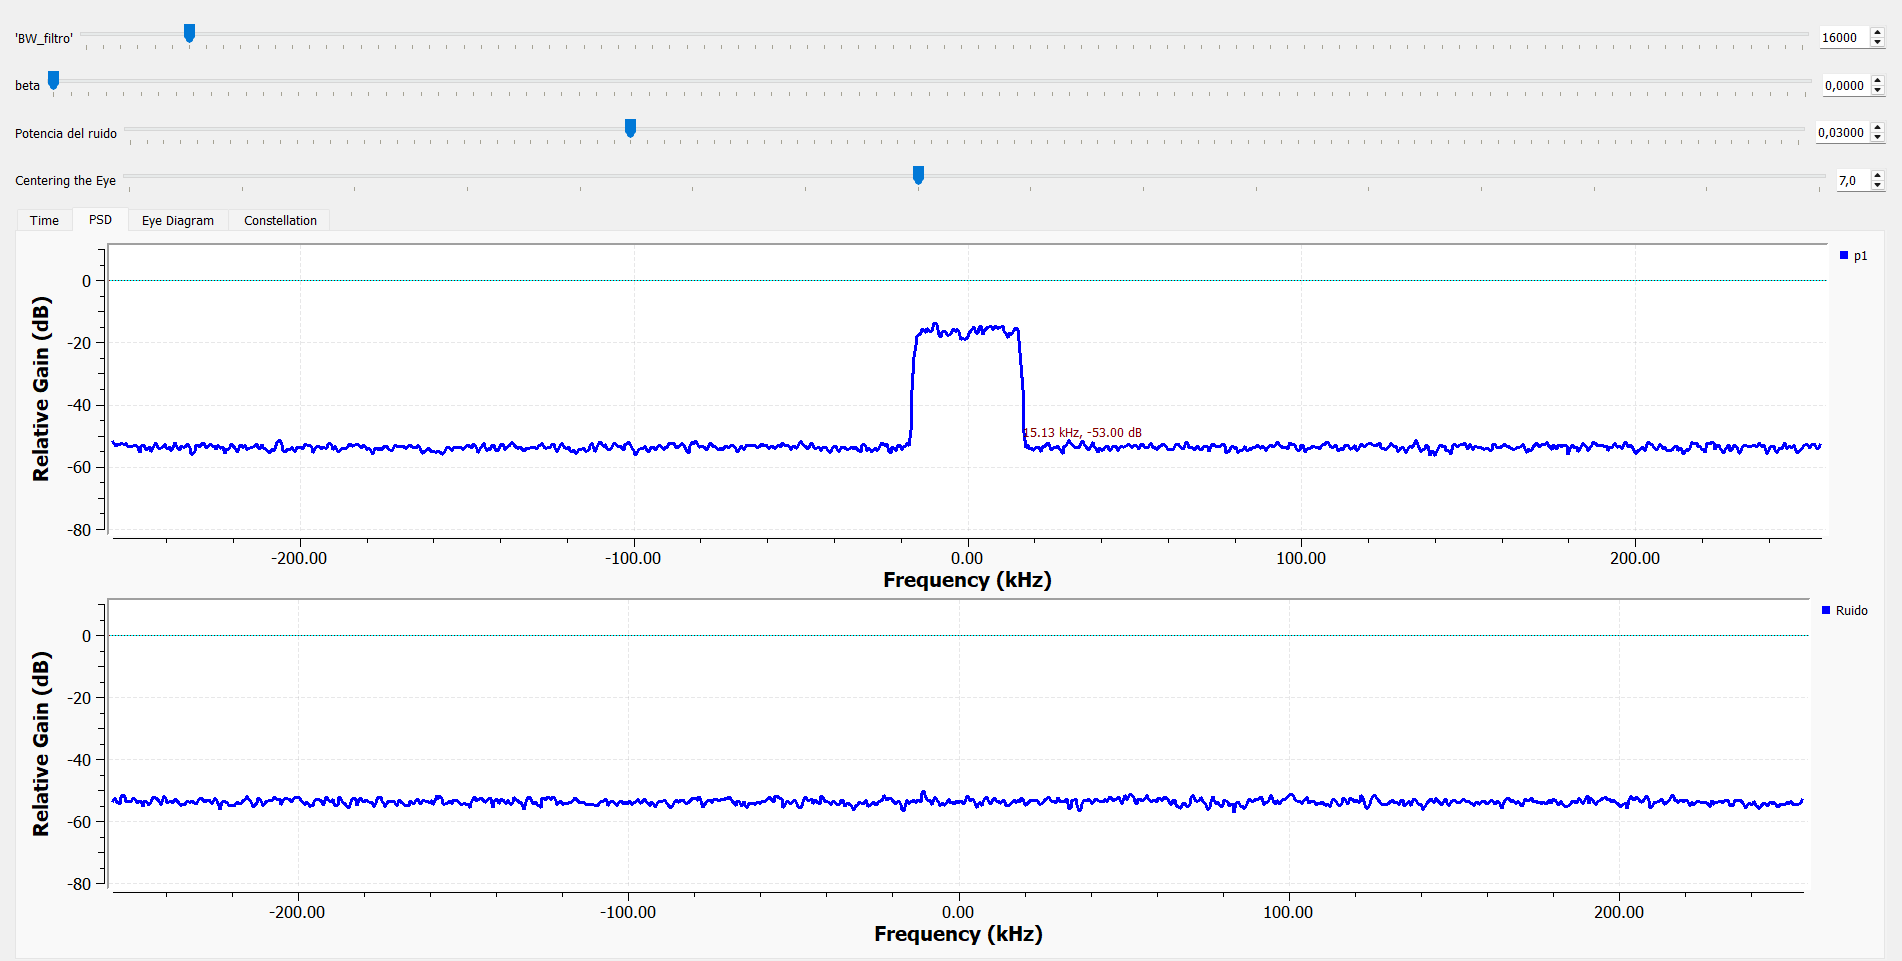
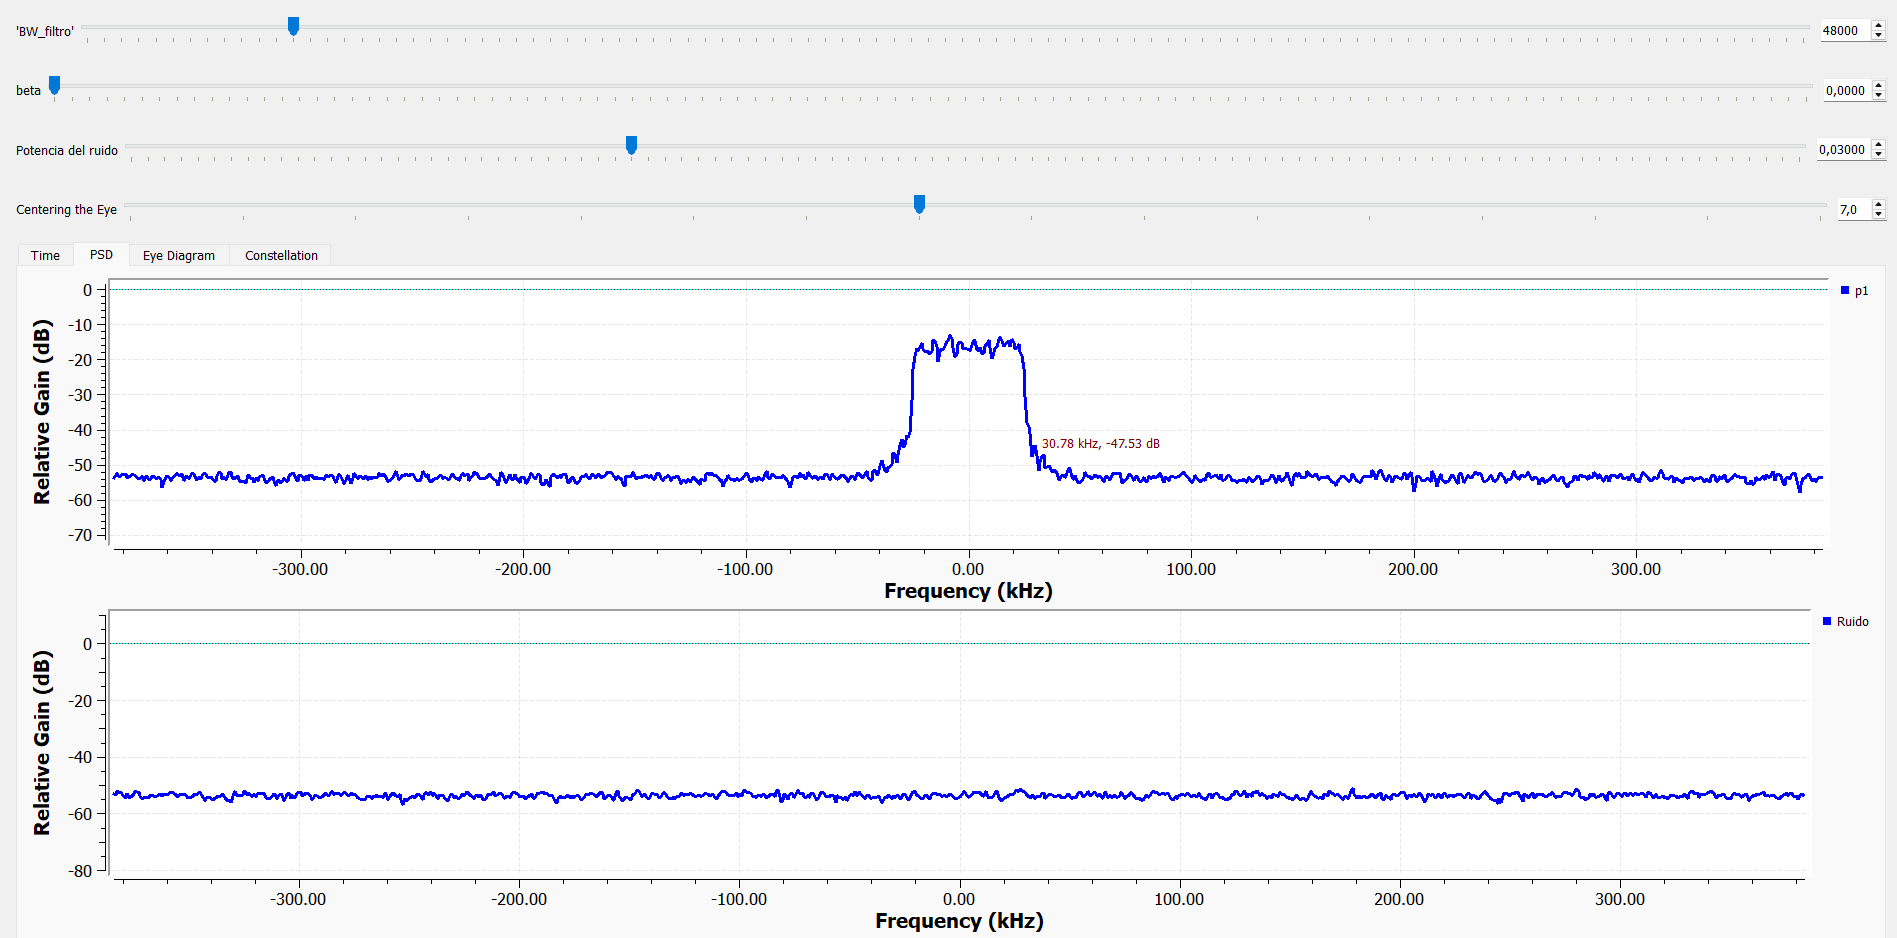
.

diff --git a/top_block.py b/top_block.py
@@ -70,7 +70,7 @@ class top_block(gr.top_block, Qt.QWidget):
         ##################################################
         self.constelacion = constelacion = [-3-3j, -3-1j, -3+1j, -3+3j,-1-3j, -1-1j, -1+1j, -1+3j,  1-3j,  1-1j,  1+1j,  1+3j,  3-3j,  3-1j,  3+1j,  3+3j]
         self.Sps = Sps = 16
-        self.Rs = Rs = 32000
+        self.Rs = Rs = 8000*6
         self.samp_rate = samp_rate = Rs*Sps
         self.M = M = len(constelacion )
         self.ntaps = ntaps = 16*Sps
